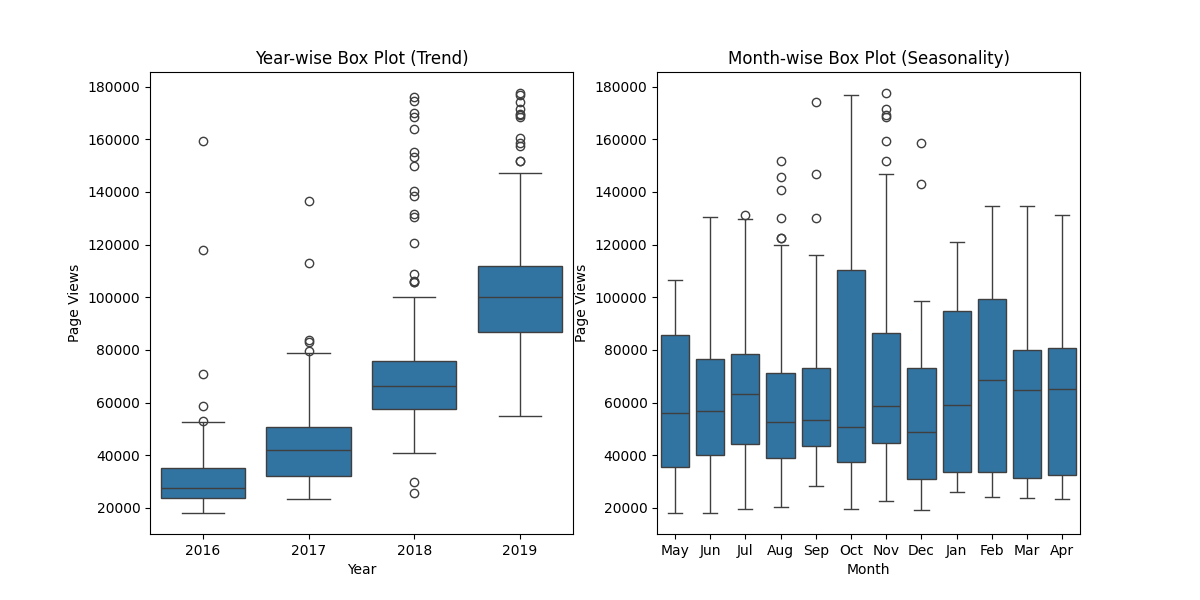
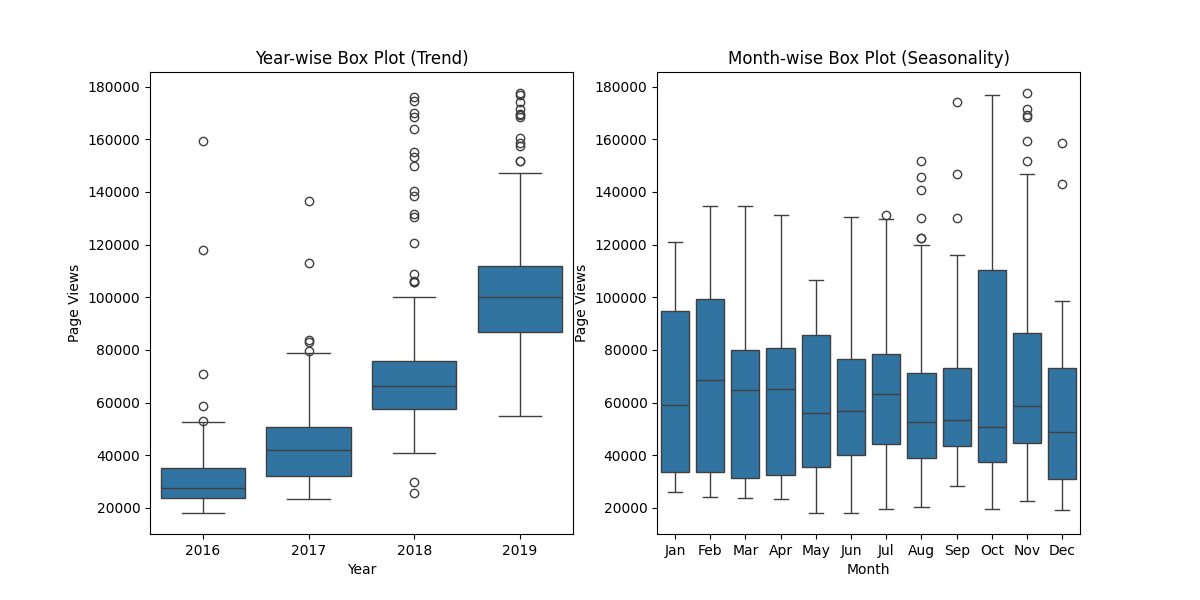
Conserto; Ainda há um erro no teste

diff --git a/time_series_visualizer.py b/time_series_visualizer.py
@@ -1,13 +1,17 @@
 import matplotlib.pyplot as plt
 import pandas as pd
 import seaborn as sns
+from calendar import month_name
 from pandas.plotting import register_matplotlib_converters
 register_matplotlib_converters()
+#Obrigado https://stackoverflow.com/questions/60624571/sort-list-of-month-name-strings-in-ascending-order
+month_lookup = list(month_name)
 
 # Import data (Make sure to parse dates. Consider setting index column to 'date'.)
 df = pd.read_csv('fcc-forum-pageviews.csv').set_index('date')
 
 # Clean data
+df.dropna(inplace=True)
 df = df[(df['value'] < df['value'].quantile(0.975)) & (df['value'] > df['value'].quantile(0.025))]
 
 
@@ -31,10 +35,9 @@ def draw_bar_plot():
     df_bar.index = pd.to_datetime(df_bar.index)
     df_bar['year'] = df_bar.index.year
     df_bar['month'] = df_bar.index.strftime('%B')
+    df_bar['month'] = pd.Categorical(df_bar['month'], categories=month_name[1:], ordered=True)
     monthAvg = df_bar.groupby(['year', 'month'])['value'].mean().unstack()
-
     # Draw bar plot
-    
     fig = plt.figure(figsize=(12,6))
     monthAvg.plot(kind="bar", ax=plt.gca())
     plt.xlabel('Years')
@@ -54,6 +57,9 @@ def draw_box_plot():
     #Não sei o que fazer aqui... O código já pronto está dando problema
     df_box['year'] = [d.year for d in df_box.date]
     df_box['month'] = [d.strftime('%b') for d in df_box.date]
+    month_order = ['Jan', 'Feb', 'Mar', 'Apr', 'May', 'Jun', 'Jul', 'Aug', 'Sep', 'Oct', 'Nov', 'Dec']
+    df_box['month'] = pd.Categorical(df_box['month'], categories=month_order, ordered=True)
+
     fig, axes = plt.subplots(1,2, figsize=(12,6))
     # Draw box plots (using Seaborn)
     sns.boxplot(x='year', y='value', data=df_box, ax=axes[0])
